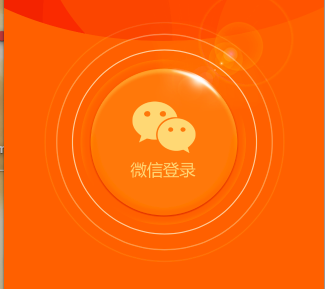
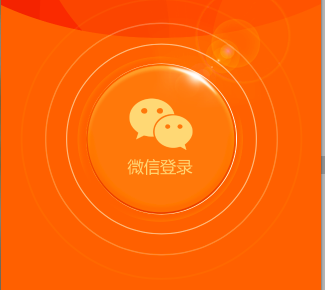
优化显示效果
优化了动画显示效果

diff --git a/XXBRippleViewTest/waterTest/XXBRippleView.m b/XXBRippleViewTest/waterTest/XXBRippleView.m
@@ -108,9 +108,18 @@
     
     [self.layer addSublayer:circleShape];
     
-    CABasicAnimation *scaleAnimation = [CABasicAnimation animationWithKeyPath:@"transform.scale"];
-    scaleAnimation.fromValue = [NSValue valueWithCATransform3D:CATransform3DIdentity];
-    scaleAnimation.toValue = [NSValue valueWithCATransform3D:CATransform3DMakeScale(self.pantographProportion, self.pantographProportion, 1)];
+    CAKeyframeAnimation *scaleAnimation = [CAKeyframeAnimation animation];
+    scaleAnimation.keyPath = @"transform.scale";
+    NSMutableArray *valueArray = [NSMutableArray array];
+    for(int i = 0 ; i<6 ; i++)
+    {
+        CGFloat percent = i/6.0 * self.pantographProportion;
+        NSValue *value = [NSValue valueWithCATransform3D:CATransform3DMakeScale(1.0 + percent ,1.0 + percent, 1)];
+        [valueArray addObject:value];
+    }
+    scaleAnimation.values = valueArray;
+    //到达每个点得时间点 百分比
+    scaleAnimation.keyTimes = @[@(0.1),@(0.4),@(0.65),@(0.85),@(0.95),@(1.0)];
     
     CABasicAnimation *alphaAnimation = [CABasicAnimation animationWithKeyPath:@"opacity"];
     alphaAnimation.fromValue = @1;
@@ -144,14 +153,14 @@
 {
     if (_maxRadius <= 0)
     {
-        _maxRadius = 50.0;
+        _maxRadius = 150.0;
     }
     return _maxRadius;
 }
 - (CGFloat)pantographProportion
 {
     if (_pantographProportion <=0) {
-        _pantographProportion = self.maxRadius/self.minRadius;
+        _pantographProportion = self.maxRadius/self.minRadius - 1.0;
     }
     return _pantographProportion;
 }
